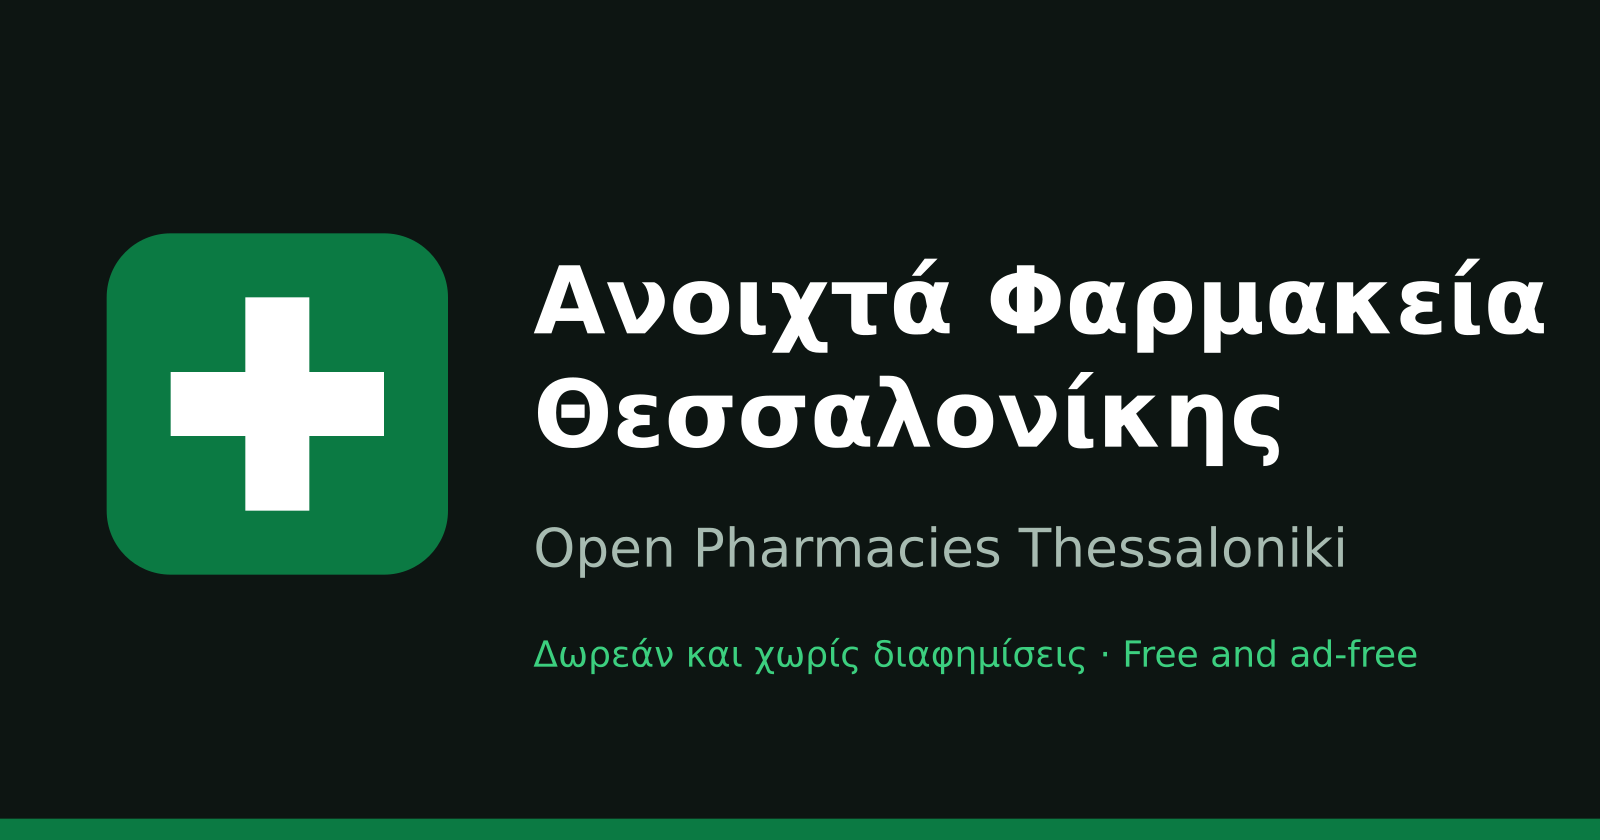
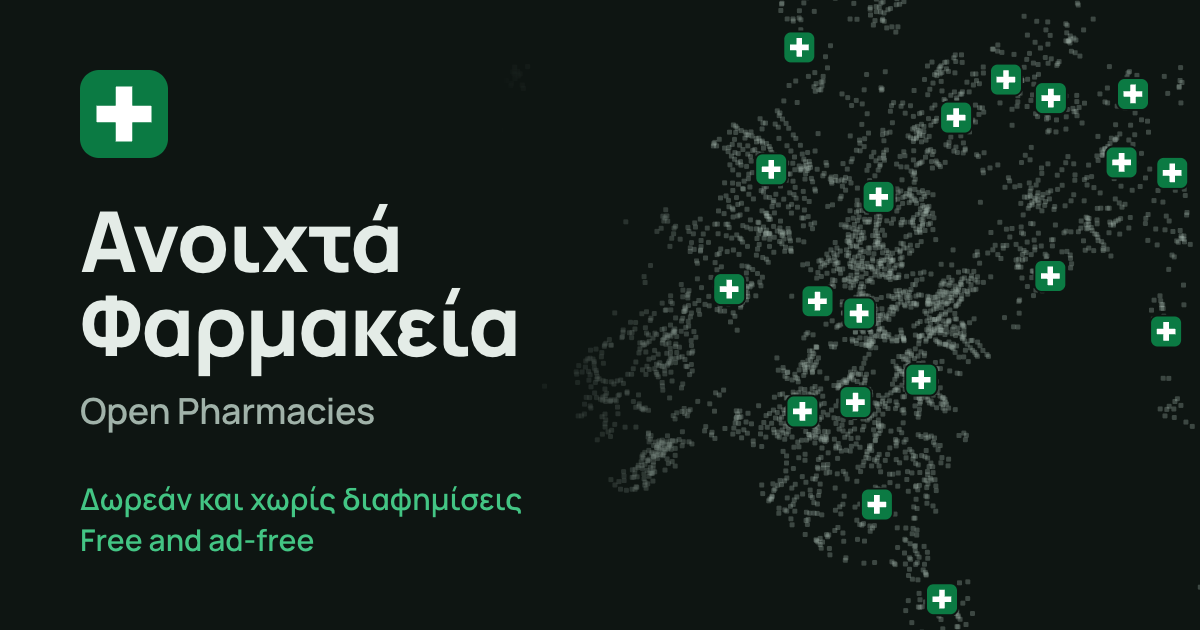
web: redraw the share image; central Athens at night from the data, set in Manrope; its own script

diff --git a/apps/web/scripts/generate-og-image.ts b/apps/web/scripts/generate-og-image.ts
@@ -1,0 +1,177 @@
+/**
+ * Renders the 1200x630 Open Graph image (public/og-image.png), the card shown when a link is
+ * shared on Reddit, Facebook, Viber or WhatsApp. Run `pnpm --filter @pharmacy-skg/web og-image`
+ * after changing the app name (src/config.ts), the tagline (i18n) or the covered areas, and
+ * commit the PNG. It is rendered in a browser so the text is set in Manrope, the app's own face:
+ * set PW_CHROMIUM_PATH to a Chromium binary, otherwise the installed Google Chrome is used.
+ *
+ * The right half is a night in central Athens drawn from the data: every pharmacy is a small grey
+ * square, and the ones on duty through the night in the latest published list are the map's
+ * large green marker. No street, name or label: only the answer the app gives, at a glance.
+ */
+import { readFile, readdir } from 'node:fs/promises';
+import { fileURLToPath } from 'node:url';
+import { chromium } from '@playwright/test';
+import sharp from 'sharp';
+import { APP_NAME } from '../src/config.ts';
+import { el } from '../src/i18n/el.ts';
+import { en } from '../src/i18n/en.ts';
+
+const WIDTH = 1200;
+const HEIGHT = 630;
+
+const dataDir = fileURLToPath(new URL('../../../data/', import.meta.url));
+const publicDir = fileURLToPath(new URL('../public/', import.meta.url));
+const fontDir = fileURLToPath(
+  new URL('../node_modules/@fontsource-variable/manrope/files/', import.meta.url),
+);
+
+// The dark look's tokens (docs/DESIGN.md, Colour): the image is seen in feeds, often at night.
+const BG = '#0e1512';
+const FG = '#e4ece7';
+const MUTED = '#a0b2a9';
+const ACCENT = '#43c584';
+// The app icon's green (favicon.svg) and its cross, as on the map's duty marker.
+const GREEN = '#0b7a43';
+const CROSS_PATH = 'M13 6h6v7h7v6h-7v7h-6v-7H6v-6h7z';
+
+interface Point {
+  lat: number;
+  lon: number;
+}
+
+interface Located extends Point {
+  id: string;
+}
+
+// The map: central Athens at street scale, where the most pharmacies are. Its centre (Syntagma,
+// a little north-east) sits in the middle of the right half; it fades out under the text.
+const AREAS = ['attiki', 'piraeus'];
+const CENTRE: Point = { lat: 37.985, lon: 23.745 };
+const CENTRE_PX = { x: 900, y: 315 };
+const PX_PER_DEGREE = 3150;
+
+async function pharmacies(): Promise<Located[]> {
+  const located: Located[] = [];
+  for (const area of AREAS) {
+    const file = await readFile(`${dataDir}${area}/pharmacies.json`, 'utf8');
+    const { pharmacies } = JSON.parse(file) as { pharmacies: { id: string; location?: Point }[] };
+    for (const p of pharmacies) if (p.location) located.push({ id: p.id, ...p.location });
+  }
+  return located;
+}
+
+/** The ids on duty through the night in the latest published day (overnight and 24-hour). */
+async function onDutyTonight(): Promise<Set<string>> {
+  const ids = new Set<string>();
+  for (const area of AREAS) {
+    const days = (await readdir(`${dataDir}${area}/duties`)).filter((f) => f.endsWith('.json'));
+    const latest = days.sort().at(-1);
+    if (!latest) continue;
+    const day = JSON.parse(await readFile(`${dataDir}${area}/duties/${latest}`, 'utf8')) as {
+      groups: { sections: { kind: string; entries: { pharmacyId?: string }[] }[] }[];
+    };
+    for (const group of day.groups)
+      for (const section of group.sections)
+        if (section.kind === 'overnight' || section.kind === 'on-duty')
+          for (const e of section.entries) if (e.pharmacyId) ids.add(e.pharmacyId);
+  }
+  return ids;
+}
+
+/** Equirectangular, scaled by the cosine of the latitude: exact enough for one city. */
+function project(p: Point): [number, number] {
+  const k = Math.cos((CENTRE.lat * Math.PI) / 180);
+  return [
+    CENTRE_PX.x + (p.lon - CENTRE.lon) * k * PX_PER_DEGREE,
+    CENTRE_PX.y - (p.lat - CENTRE.lat) * PX_PER_DEGREE,
+  ];
+}
+
+const inside = ([x, y]: [number, number], margin: number): boolean =>
+  x > -margin && x < WIDTH + margin && y > -margin && y < HEIGHT + margin;
+
+/** The on-duty marker: the app icon's rounded square and cross, `size` pixels wide. */
+function dutyMarker([x, y]: [number, number], size: number): string {
+  const s = size / 32;
+  return (
+    `<g transform="translate(${(x - size / 2).toFixed(1)} ${(y - size / 2).toFixed(1)}) scale(${s})">` +
+    `<rect x="-2" y="-2" width="36" height="36" rx="9" fill="${BG}"/>` +
+    `<rect width="32" height="32" rx="7" fill="${GREEN}"/>` +
+    `<path d="${CROSS_PATH}" fill="#fff"/></g>`
+  );
+}
+
+function mapSvg(all: Located[], duty: Set<string>): string {
+  const closed: string[] = [];
+  const open: string[] = [];
+  for (const p of all) {
+    const xy = project(p);
+    if (!inside(xy, 40)) continue;
+    if (duty.has(p.id)) {
+      // A marker half faded under the text reads as a stain: leave those out.
+      if (xy[0] > 720) open.push(dutyMarker(xy, 30));
+    } else
+      closed.push(
+        `<rect x="${(xy[0] - 2.5).toFixed(1)}" y="${(xy[1] - 2.5).toFixed(1)}" width="5" height="5" rx="1.2"/>`,
+      );
+  }
+  return (
+    `<svg class="map" xmlns="http://www.w3.org/2000/svg" width="${WIDTH}" height="${HEIGHT}" viewBox="0 0 ${WIDTH} ${HEIGHT}" aria-hidden="true">` +
+    `<g fill="${MUTED}" fill-opacity="0.32">${closed.join('')}</g>${open.join('')}</svg>`
+  );
+}
+
+async function fontFace(file: string, range: string): Promise<string> {
+  const data = (await readFile(`${fontDir}${file}`)).toString('base64');
+  return (
+    `@font-face{font-family:Manrope;font-weight:200 800;` +
+    `src:url(data:font/woff2;base64,${data}) format('woff2');unicode-range:${range}}`
+  );
+}
+
+function escapeHtml(text: string): string {
+  return text.replace(/&/g, '&amp;').replace(/</g, '&lt;').replace(/>/g, '&gt;');
+}
+
+async function html(all: Located[], duty: Set<string>): Promise<string> {
+  const fonts =
+    (await fontFace('manrope-greek-wght-normal.woff2', 'U+0370-03FF')) +
+    (await fontFace('manrope-latin-wght-normal.woff2', 'U+0000-00FF,U+2000-206F'));
+  const [nameA = '', nameB = ''] = APP_NAME.el.split(/ (?=[^ ]+$)/);
+  return `<!doctype html><html lang="el"><head><meta charset="utf-8"><style>
+${fonts}
+*{margin:0;box-sizing:border-box}
+html,body{width:${WIDTH}px;height:${HEIGHT}px;background:${BG};overflow:hidden}
+body{font-family:Manrope,sans-serif;color:${FG};-webkit-font-smoothing:antialiased;position:relative}
+.map{position:absolute;inset:0;-webkit-mask-image:linear-gradient(to right,transparent 500px,#000 720px);mask-image:linear-gradient(to right,transparent 500px,#000 720px)}
+.text{position:absolute;left:80px;top:0;bottom:0;width:560px;display:flex;flex-direction:column;justify-content:center}
+.icon{width:88px;height:88px;margin-bottom:40px}
+h1{font-size:84px;font-weight:800;line-height:1;letter-spacing:-0.02em}
+.en{font-size:36px;font-weight:600;color:${MUTED};margin-top:20px;letter-spacing:-0.01em}
+.tagline{font-size:30px;font-weight:600;color:${ACCENT};margin-top:44px;line-height:1.35}
+</style></head><body>
+${mapSvg(all, duty)}
+<div class="text">
+<svg class="icon" viewBox="0 0 32 32" aria-hidden="true"><rect width="32" height="32" rx="7" fill="${GREEN}"/><path d="${CROSS_PATH}" fill="#fff"/></svg>
+<h1>${escapeHtml(nameA)}<br>${escapeHtml(nameB)}</h1>
+<p class="en">${escapeHtml(APP_NAME.en)}</p>
+<p class="tagline">${escapeHtml(el.tagline)}<br>${escapeHtml(en.tagline)}</p>
+</div>
+</body></html>`;
+}
+
+const all = await pharmacies();
+const duty = await onDutyTonight();
+const executablePath = process.env['PW_CHROMIUM_PATH'];
+const browser = await chromium.launch(executablePath ? { executablePath } : { channel: 'chrome' });
+try {
+  const page = await browser.newPage({ viewport: { width: WIDTH, height: HEIGHT } });
+  await page.setContent(await html(all, duty));
+  await page.evaluate(() => document.fonts.ready);
+  const png = await page.screenshot({ type: 'png' });
+  await sharp(png).png({ compressionLevel: 9 }).toFile(`${publicDir}og-image.png`);
+  console.log('wrote public/og-image.png');
+} finally {
+  await browser.close();
+}

diff --git a/apps/web/scripts/generate-icons.ts b/apps/web/scripts/generate-icons.ts
@@ -1,19 +1,14 @@
 /**
- * Renders the PWA icons from public/favicon.svg and the 1200x630 Open Graph image (the preview
- * when a link is shared). Run `pnpm --filter @pharmacy-skg/web icons` after changing the
- * favicon, the app name (src/config.ts) or the wording below, and commit the PNGs it writes
- * to public/. The text is rendered with the fonts of the machine that runs it, so the result
- * is committed rather than built.
+ * Renders the PWA icons from public/favicon.svg. Run `pnpm --filter @pharmacy-skg/web icons`
+ * after changing the favicon and commit the PNGs it writes to public/. The Open Graph image (the
+ * preview when a link is shared) has its own script, scripts/generate-og-image.ts.
  */
 import { mkdir, readFile } from 'node:fs/promises';
 import { fileURLToPath } from 'node:url';
 import { faClock, faHouseMedical, faPills, faStar } from '@fortawesome/free-solid-svg-icons';
 import type { IconDefinition } from '@fortawesome/free-solid-svg-icons';
 import sharp from 'sharp';
-import { APP_NAME } from '../src/config.ts';
 import { faPath } from '../src/lib/fa.ts';
-import { el } from '../src/i18n/el.ts';
-import { en } from '../src/i18n/en.ts';
 
 const publicDir = fileURLToPath(new URL('../public/', import.meta.url));
 const favicon = await readFile(`${publicDir}favicon.svg`);
@@ -78,35 +73,3 @@ function shortcutIcon(icon: IconDefinition): Buffer {
 for (const [name, icon] of Object.entries(SHORTCUT_ICONS)) {
   await render(shortcutIcon(icon), 192, `${publicDir}icons/shortcut-${name}.png`);
 }
-
-const OG_WIDTH = 1200;
-const OG_HEIGHT = 630;
-
-function escapeXml(text: string): string {
-  return text.replace(/&/g, '&amp;').replace(/</g, '&lt;').replace(/>/g, '&gt;');
-}
-
-/** Greek title (the default locale) with the English name and the promise below it. */
-function openGraphImage(): Buffer {
-  const [greekA = '', greekB = ''] = APP_NAME.el.split(/ (?=[^ ]+$)/);
-  const text = (y: number, size: number, weight: number, fill: string, value: string) =>
-    `<text x="400" y="${y}" font-family="DejaVu Sans, Noto Sans, Arial, sans-serif" ` +
-    `font-size="${size}" font-weight="${weight}" fill="${fill}">${escapeXml(value)}</text>`;
-  return Buffer.from(
-    `<svg xmlns="http://www.w3.org/2000/svg" width="${OG_WIDTH}" height="${OG_HEIGHT}" viewBox="0 0 ${OG_WIDTH} ${OG_HEIGHT}">` +
-      `<rect width="${OG_WIDTH}" height="${OG_HEIGHT}" fill="#0d1512"/>` +
-      `<rect x="0" y="${OG_HEIGHT - 16}" width="${OG_WIDTH}" height="16" fill="${GREEN}"/>` +
-      `<g transform="translate(80 175) scale(8)">` +
-      `<rect width="32" height="32" rx="6" fill="${GREEN}"/><path d="${CROSS_PATH}" fill="#fff"/></g>` +
-      text(250, 70, 700, '#ffffff', greekA) +
-      text(335, 70, 700, '#ffffff', greekB) +
-      text(425, 40, 400, '#a7bbb1', APP_NAME.en) +
-      text(500, 27, 400, '#3ccf7f', `${el.tagline} · ${en.tagline}`) +
-      `</svg>`,
-  );
-}
-
-await sharp(openGraphImage(), { density: 96 })
-  .png({ compressionLevel: 9 })
-  .toFile(`${publicDir}og-image.png`);
-console.log('wrote public/og-image.png');

diff --git a/CLAUDE.md b/CLAUDE.md
@@ -66,7 +66,7 @@ The owner reviews the app on an iPhone; every change is judged on a phone first.
 - **Data pipeline:** `pnpm --filter @pharmacy-skg/ingest run update` (with `run`: plain `pnpm update` is pnpm's own command) fetches, validates and writes `data/<city>/`. Add `--since YYYY-MM-DD` to backfill. `pnpm --filter @pharmacy-skg/ingest run medicines` does the same for `data/medicines/` (add `--force` to rebuild when no bulletin changed). Never hand-edit generated files in `data/`; manual fixes go in `data/<city>/overrides.json`.
 - **Build scripts:** pnpm 10 blocks dependency build scripts. The allowed ones are listed under `onlyBuiltDependencies` in `pnpm-workspace.yaml`.
 - **pnpm through corepack fails** with "Cannot find matching keyid" on some machines (an outdated corepack): run `npx -y pnpm@10.28.0 <command>` instead. Playwright's web server and `e2e/run.ts` call `pnpm` themselves, so put a two-line `pnpm` script that runs `npx -y pnpm@10.28.0 "$@"` first on `PATH` for `pnpm e2e`.
-- **Node 22.12 to 22.17:** scripts that run `.ts` files directly (`e2e/run.ts`, `scripts/generate-icons.ts`) need `NODE_OPTIONS=--experimental-strip-types`; Node 22.18 and later strip types by default.
+- **Node 22.12 to 22.17:** scripts that run `.ts` files directly (`e2e/run.ts`, `scripts/generate-icons.ts`, `scripts/generate-og-image.ts`) need `NODE_OPTIONS=--experimental-strip-types`; Node 22.18 and later strip types by default.
 - **Browser tests:** without a Playwright browser, set `PW_CHROMIUM_PATH` to any Chromium or Chrome, or install one as CI does (`pnpm --filter @pharmacy-skg/web exec playwright install --with-deps chromium`). The full run takes about 15 minutes; pass a spec file to run part of it.
 - **`astro dev`** has failed to mount the React islands (a "preamble" error). Check UI changes on `build` and `preview` instead; the service worker only runs there anyway.
 - **Vitest from `apps/web`** also collects the Playwright specs and reports them as failed files; run `pnpm test` from the repository root.

diff --git a/docs/DESIGN.md b/docs/DESIGN.md
@@ -115,6 +115,8 @@ Light by default. The footer's "Εμφάνιση" control offers light, dark and
 
 Font Awesome Free only (credited on the about page), drawn as inline SVG from the icon's path: `components/app/icons.tsx` in React, `lib/fa.ts` (`faSvg`) in Astro and on the map. Icons are decorative: every button has visible text or an accessible name. Do not put icons in tinted tiles or circles as decoration. The one exception is out of our hands: the four home-screen shortcut icons (`public/icons/shortcut-*.png`, made by `scripts/generate-icons.ts`) are a white Font Awesome glyph on the app icon's green, full-bleed, because the phone cuts its own shape.
 
+**The share image** (`public/og-image.png`, 1200×630, made by `scripts/generate-og-image.ts` in a browser so it is set in Manrope): the dark look, the app icon, the name in Greek and English and the tagline on the left; on the right, central Athens at night from the data, every pharmacy a small grey square and the ones on duty through the night the large green marker. No place names, no counts that go stale. Render it again when the name or tagline changes.
+
 ## Copy
 
 Greek first; every string exists in Greek and English (`apps/web/src/i18n/`, `el.ts` defines the shape). The rules are in [decisions.md](decisions.md), Defaults, "Plain words": as few words as possible, one sentence per warning, one word for one thing (with the list of canonical terms), "Label: {name}" accessible names, no abbreviations, parentheses, em dashes or exclamation marks. Status words and duty kinds are defined once (`i18n/status-labels.ts`). `i18n.test.ts` fails on ΦΣΘ, ΠΚΜ, ΕΟΦ, ΦΠΑ, ΜΗΣΥΦΑ, em dashes and exclamation marks in any UI string.

diff --git a/apps/web/README.md b/apps/web/README.md
@@ -6,7 +6,8 @@ The web app: Astro 7 (static output) with React 19 for interactive parts, instal
 pnpm --filter @pharmacy-skg/web dev       # dev server; /data/** is served from <repo>/data
 pnpm --filter @pharmacy-skg/web build     # static site in dist/
 pnpm --filter @pharmacy-skg/web preview   # serve dist/
-pnpm --filter @pharmacy-skg/web icons     # re-render the PNG icons and the Open Graph image from public/favicon.svg
+pnpm --filter @pharmacy-skg/web icons     # re-render the PNG icons from public/favicon.svg
+pnpm --filter @pharmacy-skg/web og-image  # re-render the share image in Chrome (or PW_CHROMIUM_PATH)
 pnpm e2e                                  # build with a fixed date, then run the browser tests
 ```
 
@@ -22,7 +23,8 @@ integrations/service-worker.ts   writes dist/sw.js from sw/sw.js with the precac
 sw/sw.js                   the hand-written service worker (template)
 public/                    favicon, PNG icons, stale-check.js and theme.js (blocking head scripts: the
                            stale banner, and light / dark / auto before the first paint)
-scripts/generate-icons.ts  icon and Open Graph image generator (sharp); the PNGs are committed
+scripts/generate-icons.ts  icon generator (sharp); the PNGs are committed
+scripts/generate-og-image.ts  share image generator (a browser, for Manrope); the PNG is committed
 playwright.config.ts, e2e/ browser tests (see "Browser tests")
 src/config.ts              app name (one constant), theme colours, emergency numbers
 src/i18n/                  typed dictionaries (el.ts defines the shape, en.ts must match), routes, t()
